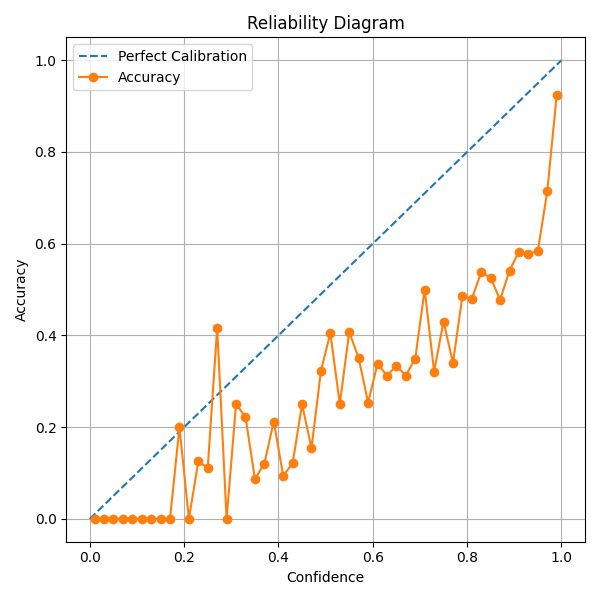
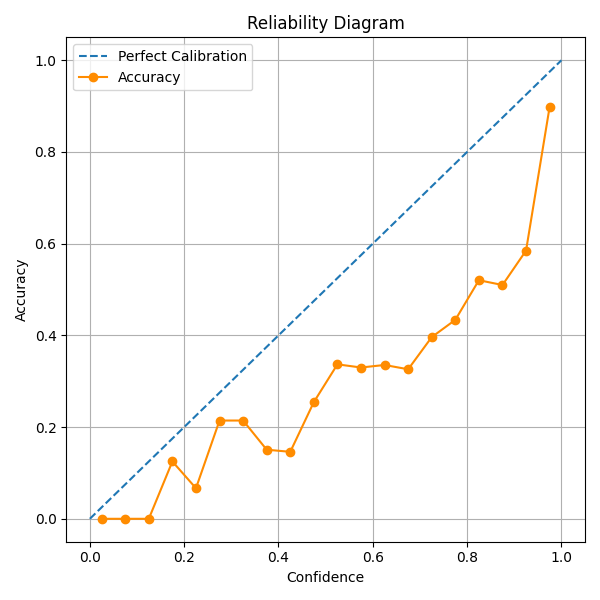
exp.

Changed region(s): [[0.15, 0.15, 0.96, 0.9]]

diff --git a/test_calibration_c.py b/test_calibration_c.py
@@ -1,0 +1,146 @@
+import argparse
+import os
+import torch
+import torch.nn as nn
+import torch.nn.functional as F
+import torchvision.transforms as transforms
+import numpy as np
+from torch.utils.data import DataLoader
+from sklearn.metrics import accuracy_score
+from typing import Dict
+from test_acc import CIFAR10C, CIFAR100C  # 事前インポート済み
+from src.models.resnet import ResNet18, ResNet101
+from src.models.wide_resnet import Wide_ResNet
+import matplotlib.pyplot as plt
+
+
+def parse_args():
+    parser = argparse.ArgumentParser()
+    parser.add_argument("--data_type", type=str, required=True,
+                        choices=["cifar10", "cifar100"])
+    parser.add_argument("--model_type", type=str, default="wide_resnet_28_10",
+                        choices=["resnet18", "resnet101", "wide_resnet_28_10"])
+    parser.add_argument("--augment", type=str, default="Default")
+    parser.add_argument("--severity", type=int, default=5)
+    # parser.add_argument("--epochs", type=int, default=400)
+    return parser.parse_args()
+
+
+def get_model(model_type: str, num_classes: int):
+    if model_type == "resnet18":
+        return ResNet18(num_classes=num_classes)
+    elif model_type == "resnet101":
+        return ResNet101(num_classes=num_classes)
+    else:
+        return Wide_ResNet(28, 10, 0.3, num_classes)
+
+
+def evaluate(model, dataloader, device, augment, num_classes: int):
+    model.eval()
+    criterion = nn.CrossEntropyLoss()
+
+    all_confidences = []
+    all_preds = []
+    all_labels = []
+    all_probs = []
+    total_loss = 0.0
+
+    with torch.no_grad():
+        for inputs, targets in dataloader:
+            inputs, targets = inputs.to(device), targets.to(device)
+
+            outputs = model(inputs, targets, device, augment)
+            loss = criterion(outputs, targets)
+            total_loss += loss.item() * inputs.size(0)
+
+            probs = F.softmax(outputs, dim=1)
+            conf, preds = torch.max(probs, dim=1)
+
+            all_probs.append(probs.cpu())
+            all_confidences.append(conf.cpu().numpy())
+            all_preds.append(preds.cpu().numpy())
+            all_labels.append(targets.cpu().numpy())
+
+    all_confidences = np.concatenate(all_confidences)
+    all_preds = np.concatenate(all_preds)
+    all_labels_np = np.concatenate(all_labels)
+    all_probs = torch.cat(all_probs, dim=0)
+    all_labels_tensor = torch.tensor(all_labels_np, dtype=torch.long)
+
+    ece = compute_ece_from_preds(all_confidences, all_preds, all_labels_np)
+    log_probs = torch.log(all_probs + 1e-12)
+    nll = F.nll_loss(log_probs, all_labels_tensor, reduction='mean').item()
+    one_hot = F.one_hot(all_labels_tensor, num_classes=num_classes).float()
+    brier = torch.mean(torch.sum((all_probs - one_hot) ** 2, dim=1)).item()
+
+    return ece, nll, brier
+
+
+def compute_ece_from_preds(confidences: np.ndarray, predictions: np.ndarray, labels: np.ndarray, n_bins: int = 15) -> float:
+    bins = np.linspace(0.0, 1.0, n_bins + 1)
+    ece = 0.0
+    N = len(confidences)
+    for lower, upper in zip(bins[:-1], bins[1:]):
+        mask = (confidences > lower) & (confidences <= upper)
+        prop_in_bin = mask.sum() / N
+        if prop_in_bin > 0:
+            accuracy_in_bin = (predictions[mask] == labels[mask]).mean()
+            avg_confidence_in_bin = confidences[mask].mean()
+            ece += np.abs(avg_confidence_in_bin - accuracy_in_bin) * prop_in_bin
+    return ece
+
+
+def main():
+    args = parse_args()
+    device = torch.device('cuda' if torch.cuda.is_available() else 'cpu')
+    corruption_list = [
+        'gaussian_noise', 'shot_noise', 'impulse_noise',
+        'defocus_blur', 'glass_blur', 'motion_blur', 'zoom_blur',
+        'snow', 'frost', 'fog', 'brightness',
+        'contrast', 'elastic_transform', 'pixelate', 'jpeg_compression'
+    ]
+
+    transform = transforms.Compose([
+        transforms.ToTensor(),
+        transforms.Normalize(mean=[0.485, 0.456, 0.406],
+                             std=[0.229, 0.224, 0.225])
+    ])
+
+    if args.data_type == "cifar10":
+        dataset_class = CIFAR10C
+        num_classes, epochs = 10, 250
+    elif args.data_type == "cifar100":
+        dataset_class = CIFAR100C
+        num_classes, epochs = 100, 400
+    else:
+        raise ValueError("Invalid data_type")
+
+    batch_size = 128
+    model = get_model(args.model_type, num_classes=num_classes).to(device)
+    model_path = f"./logs/{args.model_type}/{args.augment}/{args.data_type}_{epochs}_0.pth"
+    model.load_state_dict(torch.load(model_path, weights_only=True))
+
+    ece_list = []
+    nll_list = []
+    brier_list = []
+
+    for corruption in corruption_list:
+        print(f"\n==> Evaluating corruption: {corruption}")
+        dataset = dataset_class(corruption_type=corruption, severity=args.severity, transform=transform)
+        dataloader = DataLoader(dataset, batch_size=batch_size, shuffle=False)
+
+        ece, nll, brier = evaluate(model, dataloader, device, args.augment, num_classes)
+        print(f"  ECE: {ece:.4f}, NLL: {nll:.4f}, Brier: {brier:.4f}")
+
+        ece_list.append(ece)
+        nll_list.append(nll)
+        brier_list.append(brier)
+
+    print("\n=== Final Summary ===")
+    print(f"Average ECE   : {np.mean(ece_list):.4f}")
+    print(f"Average NLL   : {np.mean(nll_list):.4f}")
+    print(f"Average Brier : {np.mean(brier_list):.4f}")
+
+
+if __name__ == "__main__":
+    main()

diff --git a/test_calibration.py b/test_calibration.py
@@ -15,11 +15,13 @@ from sklearn.metrics import accuracy_score
 from matplotlib.colors import LinearSegmentedColormap
 
 augmentations = [
-    # "Default",
-    # "Mixup",
-    # "Manifold-Mixup",
-    # "Mixup-FOMA",
-    "Local-FOMA"
+    "Default",
+    "Mixup",
+    "Manifold-Mixup",
+    # "CutMix",
+    "Mixup-FOMA",
+    # "Local-FOMA",
+    # "Mixup-FOMA-scaleup"
 ]
 
 def main():

diff --git a/test_acc.py b/test_acc.py
@@ -33,7 +33,8 @@ augmentations = [
     # "Default",
     # "Mixup",
     # "Mixup-FOMA",
-    "Manifold-Mixup",
+    "Mixup-FOMA-scaleup",
+    # "Manifold-Mixup",
     # "Local-FOMA",
     # "FOMA-Mixup",
     # "RegMixup",
